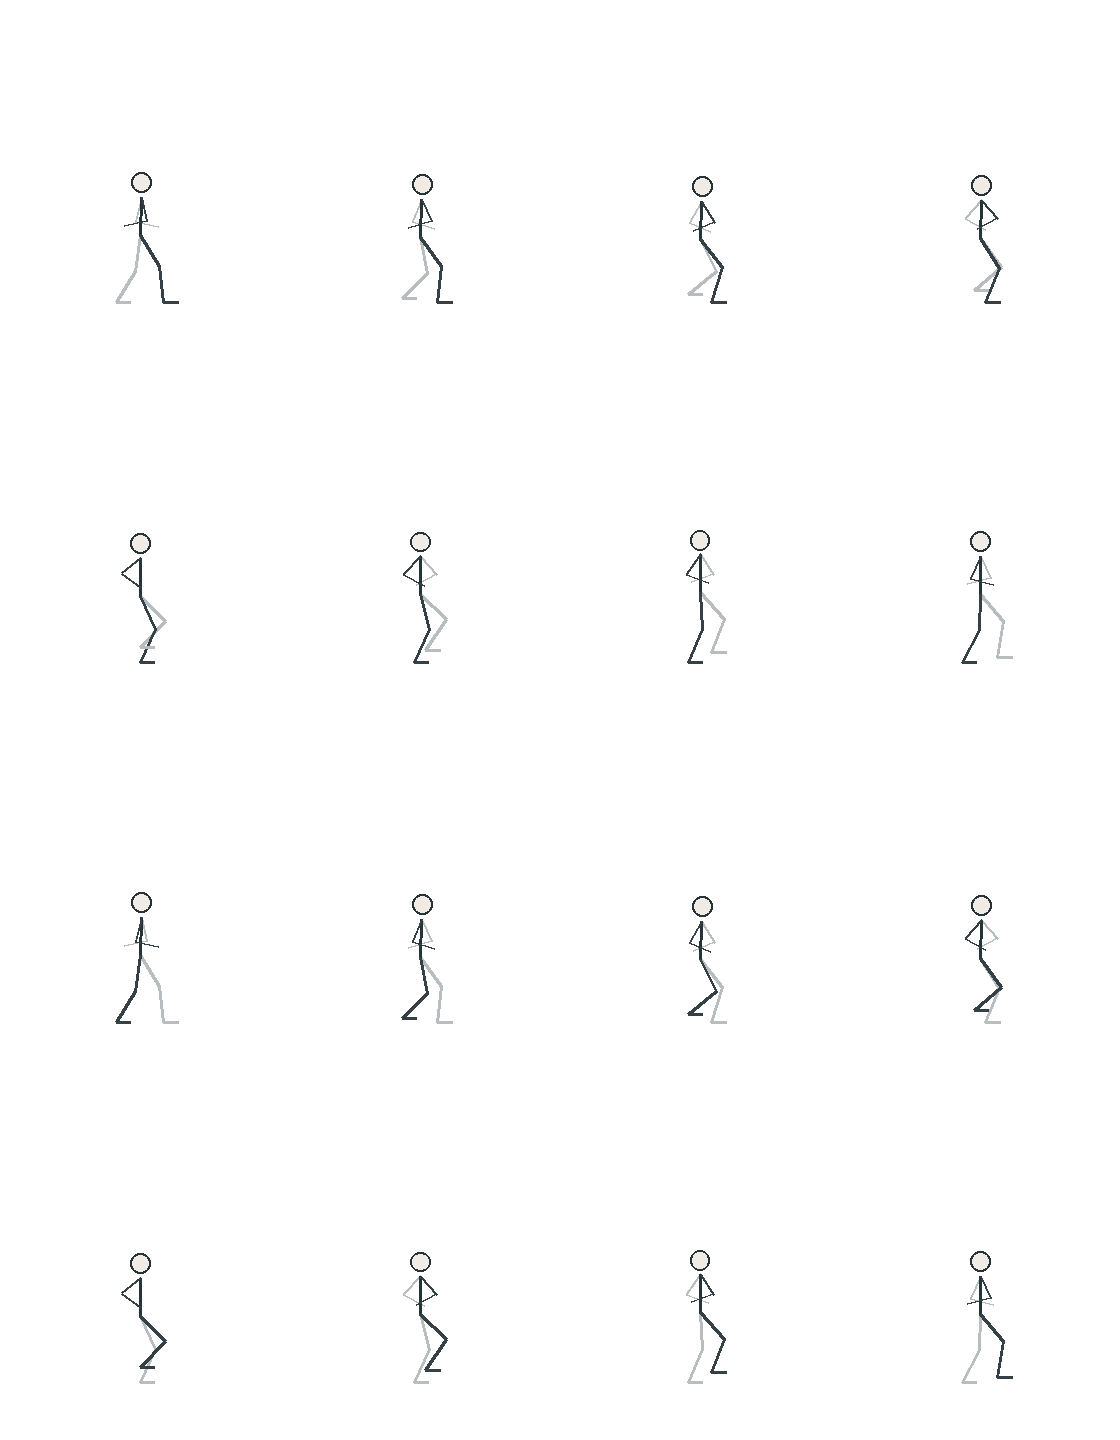
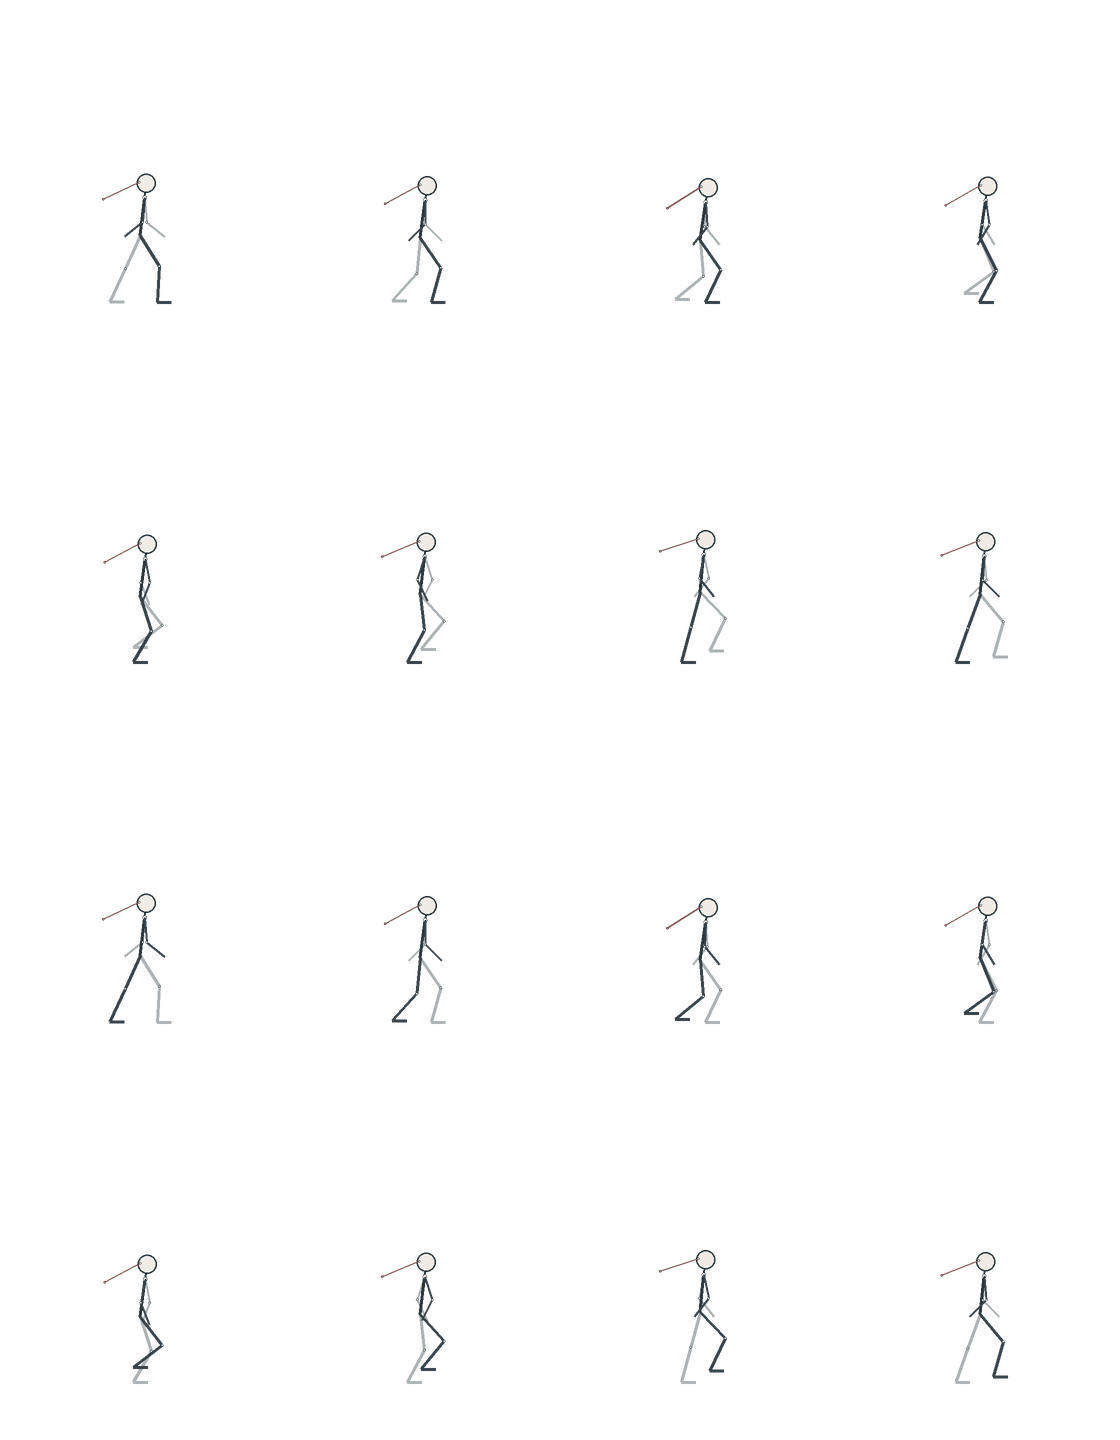
Add files via upload

diff --git a/game-17.js b/game-17.js
@@ -34,7 +34,8 @@
     lowerArm: 0.245,
     upperLeg: 0.38,
     lowerLeg: 0.38,
-    foot: 0.15
+    foot: 0.15,
+    hair: 0.42
   });
 
   const KEY_NAMES = ['Contact L','Down L','Passing L','Up L','Contact R','Down R','Passing R','Up R'];
@@ -44,22 +45,29 @@
   function clonePose(p) { return JSON.parse(JSON.stringify(p)); }
 
   function makeKey(i) {
-    const pelvisY = [0.700, 0.660, 0.690, 0.730, 0.700, 0.660, 0.690, 0.730][i];
-    const lean = [2, 3, 1, 0, 2, 3, 1, 0][i] * DEG;
+    const pelvisY = [0.700, 0.655, 0.690, 0.735, 0.700, 0.655, 0.690, 0.735][i];
+    // A consistent slight forward lean reads more naturally for a travelling walk.
+    const lean = [7, 9, 8, 6, 7, 9, 8, 6][i] * DEG;
 
-    // The stance foot travels backwards exactly as root travel increases.
-    // This makes the planted foot stay fixed in world space when paired with
-    // the moving floor ticks: footX + travel is constant through each stance.
-    const aFootX = [ 0.250,  0.125,  0.000, -0.125, -0.250, -0.125,  0.000,  0.125][i];
-    const bFootX = [-0.250, -0.125,  0.000,  0.125,  0.250,  0.125,  0.000, -0.125][i];
-    const aFootLift = [0.000,0.000,0.000,0.000,0.000,0.080,0.160,0.100][i];
-    const bFootLift = [0.000,0.080,0.160,0.100,0.000,0.000,0.000,0.000][i];
+    // Eight deliberate key poses. During each stance, the planted foot moves
+    // backwards by exactly the same amount that travel moves forwards, so its
+    // world position stays fixed. Both feet are shifted slightly left so the
+    // legs sit more naturally under the centre of mass.
+    const aFootX = [ 0.180,  0.055, -0.070, -0.195, -0.320, -0.260, -0.070,  0.100][i];
+    const bFootX = [-0.320, -0.260, -0.070,  0.100,  0.180,  0.055, -0.070, -0.195][i];
+    const aFootLift = [0.000,0.000,0.000,0.000,0.000,0.035,0.160,0.120][i];
+    const bFootLift = [0.000,0.035,0.160,0.120,0.000,0.000,0.000,0.000][i];
 
-    // Arms counter-swing against the legs. Both shoulders share the same
-    // central attachment point; elbows are solved automatically.
-    const aHandX = [-0.180,-0.090,0.000,0.090,0.180,0.090,0.000,-0.090][i];
-    const bHandX = [ 0.180, 0.090,0.000,-0.090,-0.180,-0.090,0.000, 0.090][i];
-    const handY = [0.300,0.315,0.305,0.290,0.300,0.315,0.305,0.290][i];
+    // Stronger contralateral arm swing. Hands follow a shallow arc and stay
+    // close to full arm extension so the motion reads as a walk rather than
+    // small wrist movements.
+    const aHandX = [-0.210,-0.140,-0.040, 0.100, 0.210, 0.140, 0.040,-0.100][i];
+    const bHandX = [ 0.210, 0.140, 0.040,-0.100,-0.210,-0.140,-0.040, 0.100][i];
+    const handY  = [ 0.410, 0.445, 0.480, 0.445, 0.410, 0.445, 0.480, 0.445][i];
+
+    // One fixed-length hair bone, rooted behind the head. It lags and bounces
+    // through the cycle to give a clean guide for long-hair follow-through.
+    const hairAngle = [155,148,152,162,155,148,152,162][i] * DEG;
 
     return {
       name: KEY_NAMES[i],
@@ -73,6 +81,7 @@
       aHandY: handY,
       bHandX,
       bHandY: handY,
+      hairAngle,
       planted: i < 4 ? 'A' : 'B',
       travel: i / 8,
       key: true
@@ -94,6 +103,7 @@
       aHandY: lerp(a.aHandY, b.aHandY, t),
       bHandX: lerp(a.bHandX, b.bHandX, t),
       bHandY: lerp(a.bHandY, b.bHandY, t),
+      hairAngle: lerp(a.hairAngle ?? 155*DEG, b.hairAngle ?? 155*DEG, t),
       planted: a.planted,
       travel: lerp(a.travel, travelB, t),
       key: false
@@ -188,6 +198,15 @@
       x: neck.x + Math.sin(p.lean) * BODY.headR * 0.95 * scale,
       y: neck.y - Math.cos(p.lean) * BODY.headR * 0.95 * scale
     };
+    const hairRoot = {
+      x: head.x - BODY.headR * 0.72 * scale,
+      y: head.y - BODY.headR * 0.10 * scale
+    };
+    const hairAngle = Number.isFinite(p.hairAngle) ? p.hairAngle : 155 * DEG;
+    const hairTip = {
+      x: hairRoot.x + Math.cos(hairAngle) * BODY.hair * scale,
+      y: hairRoot.y + Math.sin(hairAngle) * BODY.hair * scale
+    };
 
     const aFTarget = { x: cx + p.aFootX * scale, y: groundY - p.aFootLift * scale };
     const bFTarget = { x: cx + p.bFootX * scale, y: groundY - p.bFootLift * scale };
@@ -200,7 +219,7 @@
     const bArm = solveJoint(shoulder, bHTarget, BODY.upperArm*scale, BODY.lowerArm*scale, 'elbow');
 
     return {
-      W,H,scale,cx,groundY,pelvis,chest,shoulder,neck,head,
+      W,H,scale,cx,groundY,pelvis,chest,shoulder,neck,head,hairRoot,hairTip,
       aK:aLeg.joint,aF:aLeg.target,bK:bLeg.joint,bF:bLeg.target,
       aE:aArm.joint,aW:aArm.target,bE:bArm.joint,bW:bArm.target
     };
@@ -253,6 +272,10 @@
     line(c,g.pelvis,g.chest,lw*1.05,core,alpha);
     line(c,g.chest,g.neck,lw*.72,core,alpha);
     circle(c,g.head,BODY.headR*s,ghost?'#c0c5c5':'#f0ebe5',core,alpha);
+    // Long-hair guide bone: deliberately simple and fixed-length.
+    line(c,g.hairRoot,g.hairTip,lw*.58,ghost?'#a5abad':'#7a4b49',alpha*.88);
+    circle(c,g.hairRoot,Math.max(2.5,s*.015),ghost?'#aeb4b5':'#e9e4df',core,alpha*.90);
+    circle(c,g.hairTip,Math.max(2.3,s*.013),ghost?'#aeb4b5':'#b56a64',core,alpha*.90);
     circle(c,g.shoulder,Math.max(3,s*.022),ghost?'#adb4b5':'#f0ebe5',core,alpha);
 
     // Front limbs.
@@ -320,7 +343,7 @@
 
     const p=frames[frame];
     readout.textContent=`Frame ${frame+1} / 16 · ${p.name} · ${p.key?'KEY':'IN-BETWEEN'} · ${p.planted==='A'?'LEFT':'RIGHT'} PLANT`;
-    editHint.textContent=activeJoint ? `Editing ${activeJoint}` : 'Drag pelvis, chest, hands or feet';
+    editHint.textContent=activeJoint ? `Editing ${activeJoint}` : 'Drag pelvis, chest, hands or feet · hair bone is automatic';
     scrub.value=String(frame);
   }
 
@@ -422,7 +445,7 @@
   }
 
   function saveJSON(){
-    const data={type:'GameHubWalkLab',version:3,fps,body:BODY,frames};
+    const data={type:'GameHubWalkLab',version:4,fps,body:BODY,frames};
     downloadBlob(new Blob([JSON.stringify(data,null,2)],{type:'application/json'}),'walk-lab-animation.json');
   }
 
@@ -432,7 +455,11 @@
       if(!data||!Array.isArray(data.frames)||data.frames.length!==16)throw new Error('Expected a 16-frame Walk Lab animation.');
       const required=['pelvisY','lean','aFootX','aFootLift','bFootX','bFootLift','aHandX','aHandY','bHandX','bHandY'];
       if(!required.every(k=>Number.isFinite(data.frames[0]?.[k])))throw new Error('This is an older Walk Lab format. Reset the cycle or load a v3 animation.');
-      frames=data.frames.map((p,i)=>({...clonePose(p),key:i%2===0}));
+      frames=data.frames.map((p,i)=>({
+        ...clonePose(p),
+        hairAngle:Number.isFinite(p.hairAngle)?p.hairAngle:(i%8===0||i%8===4?155*DEG:152*DEG),
+        key:i%2===0
+      }));
       if(Number.isFinite(data.fps)){fps=clamp(Math.round(data.fps),4,24);fpsSlider.value=String(fps);fpsOut.textContent=`${fps} fps`;}
       frame=0; playing=false; playBtn.textContent='Play'; playBtn.classList.remove('active'); draw();
     }catch(err){alert(`Could not load animation: ${err.message}`);}
@@ -449,7 +476,7 @@
       drawPoseTo(c,p,g,{handles:false,ghost:false});
       c.restore();
     });
-    out.toBlob(blob=>{if(blob)downloadBlob(blob,'walk-lab-reference.png');},'image/png');
+    out.toBlob(blob=>{if(blob)downloadBlob(blob,'walk-lab-16-frame-reference.png');},'image/png');
   }
 
   scrub.addEventListener('input',()=>{frame=Number(scrub.value);playing=false;playBtn.textContent='Play';playBtn.classList.remove('active');draw();});

diff --git a/game-17.html b/game-17.html
@@ -7,7 +7,7 @@
   <meta name="apple-mobile-web-app-capable" content="yes">
   <meta name="apple-mobile-web-app-status-bar-style" content="default">
   <meta name="theme-color" content="#e7dbd2">
-  <link rel="stylesheet" href="style.css?v=1.8.55">
+  <link rel="stylesheet" href="style.css?v=1.8.56">
   <title>Walk Lab</title>
 </head>
 <body class="modular-game" data-game-id="game-17">
@@ -19,7 +19,7 @@
       <button class="game-info-close" type="button" aria-label="Close instructions">×</button>
       <p class="kicker">ANIMATION TOOL</p>
       <h2 id="game-17-info-title">Walk Lab</h2>
-      <p>A simpler fixed-length stick rig for building a clean walk. Drag the pelvis, chest, hands or feet; knees and elbows solve automatically so the limbs cannot stretch or fold backwards. The shoulders share one central attachment point. The default cycle is rebuilt around a genuinely planted stance foot, with moving floor marks to expose any sliding. Edit the eight key poses, then use <strong>Make mids</strong> for the eight in-betweens.</p>
+      <p>A fixed-length stick rig for building a clean walk. The default cycle now has a stronger natural arm swing, feet shifted under the centre of mass, a slight forward body lean, and a fixed-length long-hair guide bone with built-in bounce. Drag the pelvis, chest, hands or feet; knees and elbows solve automatically. The stance foot is pinned against root travel, and <strong>Export PNG</strong> outputs all 16 frames on one transparent 4×4 page.</p>
     </div>
   </div>
 
@@ -34,7 +34,7 @@
         <div class="walklab-stage-wrap">
           <canvas id="walklab-canvas" aria-label="Editable sixteen frame stick figure walk cycle"></canvas>
           <div class="walklab-readout" id="walklab-readout">Frame 1 / 16 · Contact L · KEY</div>
-          <div class="walklab-edit-hint" id="walklab-edit-hint">Drag pelvis, chest, hands or feet</div>
+          <div class="walklab-edit-hint" id="walklab-edit-hint">Drag pelvis, chest, hands or feet · hair bone is automatic</div>
         </div>
 
         <div class="walklab-scrub-row">
@@ -69,8 +69,8 @@
     </section>
   </main>
 
-  <script src="site-config.js?v=1.8.55"></script>
-  <script src="core.js?v=1.8.55"></script>
-  <script src="game-17.js?v=1.8.55"></script>
+  <script src="site-config.js?v=1.8.56"></script>
+  <script src="core.js?v=1.8.56"></script>
+  <script src="game-17.js?v=1.8.56"></script>
 </body>
 </html>

diff --git a/style.css b/style.css
@@ -10551,7 +10551,7 @@ body[data-game-id="game-16"] .sidescroll-control:active{
   body[data-game-id="game-16"] .sidescroll-control span{font-size:23px;line-height:20px;}
 }
 
-/* GameHub v1.8.55 — Walk Lab */
+/* GameHub v1.8.56 — Walk Lab */
 body[data-game-id="game-17"] .walklab-page{
   width:100%;height:100%;display:flex;flex-direction:column;gap:9px;min-height:0;
 }
@@ -10589,7 +10589,7 @@ body[data-game-id="game-17"] .walklab-plant-dot{background:#718f89;}
   body[data-game-id="game-17"] .walklab-legend{display:none;}
 }
 
-/* GameHub v1.8.55 — Walk Lab editor controls */
+/* GameHub v1.8.56 — Walk Lab editor controls */
 body[data-game-id="game-17"] .walklab-edit-hint{
   position:absolute;left:50%;bottom:10px;transform:translateX(-50%);padding:5px 9px;border-radius:10px;
   background:rgba(247,240,233,.86);border:1px solid rgba(80,88,91,.18);color:#626a6d;font-size:10px;font-weight:800;

diff --git a/index.html b/index.html
@@ -9,7 +9,7 @@
   <meta name="theme-color" content="#e7dbd2">
   <link rel="manifest" href="manifest.json">
   <link rel="apple-touch-icon" href="icon-192.png">
-  <link rel="stylesheet" href="style.css?v=1.8.55">
+  <link rel="stylesheet" href="style.css?v=1.8.56">
   <title>Games</title>
 </head>
 <body class="modular-home">
@@ -46,8 +46,8 @@
     </div>
     <section class="game-grid" id="game-grid" aria-label="Games"></section>
   </main>
-  <script src="site-config.js?v=1.8.55"></script>
+  <script src="site-config.js?v=1.8.56"></script>
   <script src="core.js?v=1.8.4"></script>
-  <script src="home.js?v=1.8.55"></script>
+  <script src="home.js?v=1.8.56"></script>
 </body>
 </html>

diff --git a/site-config.js b/site-config.js
@@ -186,7 +186,7 @@ window.APP_CONFIG = {
       "description": "Explore a layered 3D forest path with depth fog, consistent density and a flip-book walking sprite test.",
       "icon": "♠",
       "enabled": true,
-      "path": "game-16.html?v=1.8.55"
+      "path": "game-16.html?v=1.8.56"
     },
     {
       "id": "game-17",
@@ -194,7 +194,7 @@ window.APP_CONFIG = {
       "description": "Study a clean 16-frame walk cycle built from eight key poses and eight in-betweens.",
       "icon": "↻",
       "enabled": true,
-      "path": "game-17.html?v=1.8.55"
+      "path": "game-17.html?v=1.8.56"
     }
   ]
 };

diff --git a/sw.js b/sw.js
@@ -1,4 +1,4 @@
-const CACHE = "gamehub-v1.8.55";
+const CACHE = "gamehub-v1.8.56";
 const APP_SHELL = [
   "./",
   "./index.html",

diff --git a/README.md b/README.md
@@ -1,12 +1,12 @@
-# GameHub v1.8.55
+# GameHub v1.8.56
 
-Walk Lab stick-rig + planted-foot pass.
+Walk Lab gait refinement pass.
 
-- Took **Walk Lab** back to a clean stick figure rather than the mannequin body shapes.
-- Kept visible feet and fixed upper/lower arm and leg lengths.
-- Both arms now attach to one **central shoulder point**.
-- Simplified editing to the useful controls only: pelvis, chest, hands and feet. Knees and elbows solve automatically.
-- Changed leg IK so knees consistently bend forwards instead of folding backwards.
-- Rebuilt the default 8 key poses around a proper stance-foot model: the planted foot moves backwards at exactly the same rate as root travel, so it stays pinned to one point on the moving ground.
-- Kept 8 key poses + 8 generated in-betweens, onion skin, scrub, save/load JSON and transparent PNG export.
-- Added **Reset cycle** so experiments can always return to the clean default walk.
+- Kept the simpler **stick rig** with fixed limb lengths and visible feet.
+- Reworked the default **arm swing** so the hands follow a stronger contralateral arc and use most of the available arm length.
+- Shifted both legs slightly left so they sit more naturally under the character's centre of mass.
+- Added a consistent slight **forward body lean** through the walk.
+- Retuned the eight key leg poses while preserving the planted-foot rule: during stance, foot position + root travel remains constant.
+- Added a fixed-length **hair guide bone** behind the head with automatic bounce / lag through the cycle.
+- `Export PNG` produces a transparent **4×4 page containing all 16 frames**.
+- Save JSON now writes Walk Lab format v4; older v3 files still load with a default hair-bone motion.
